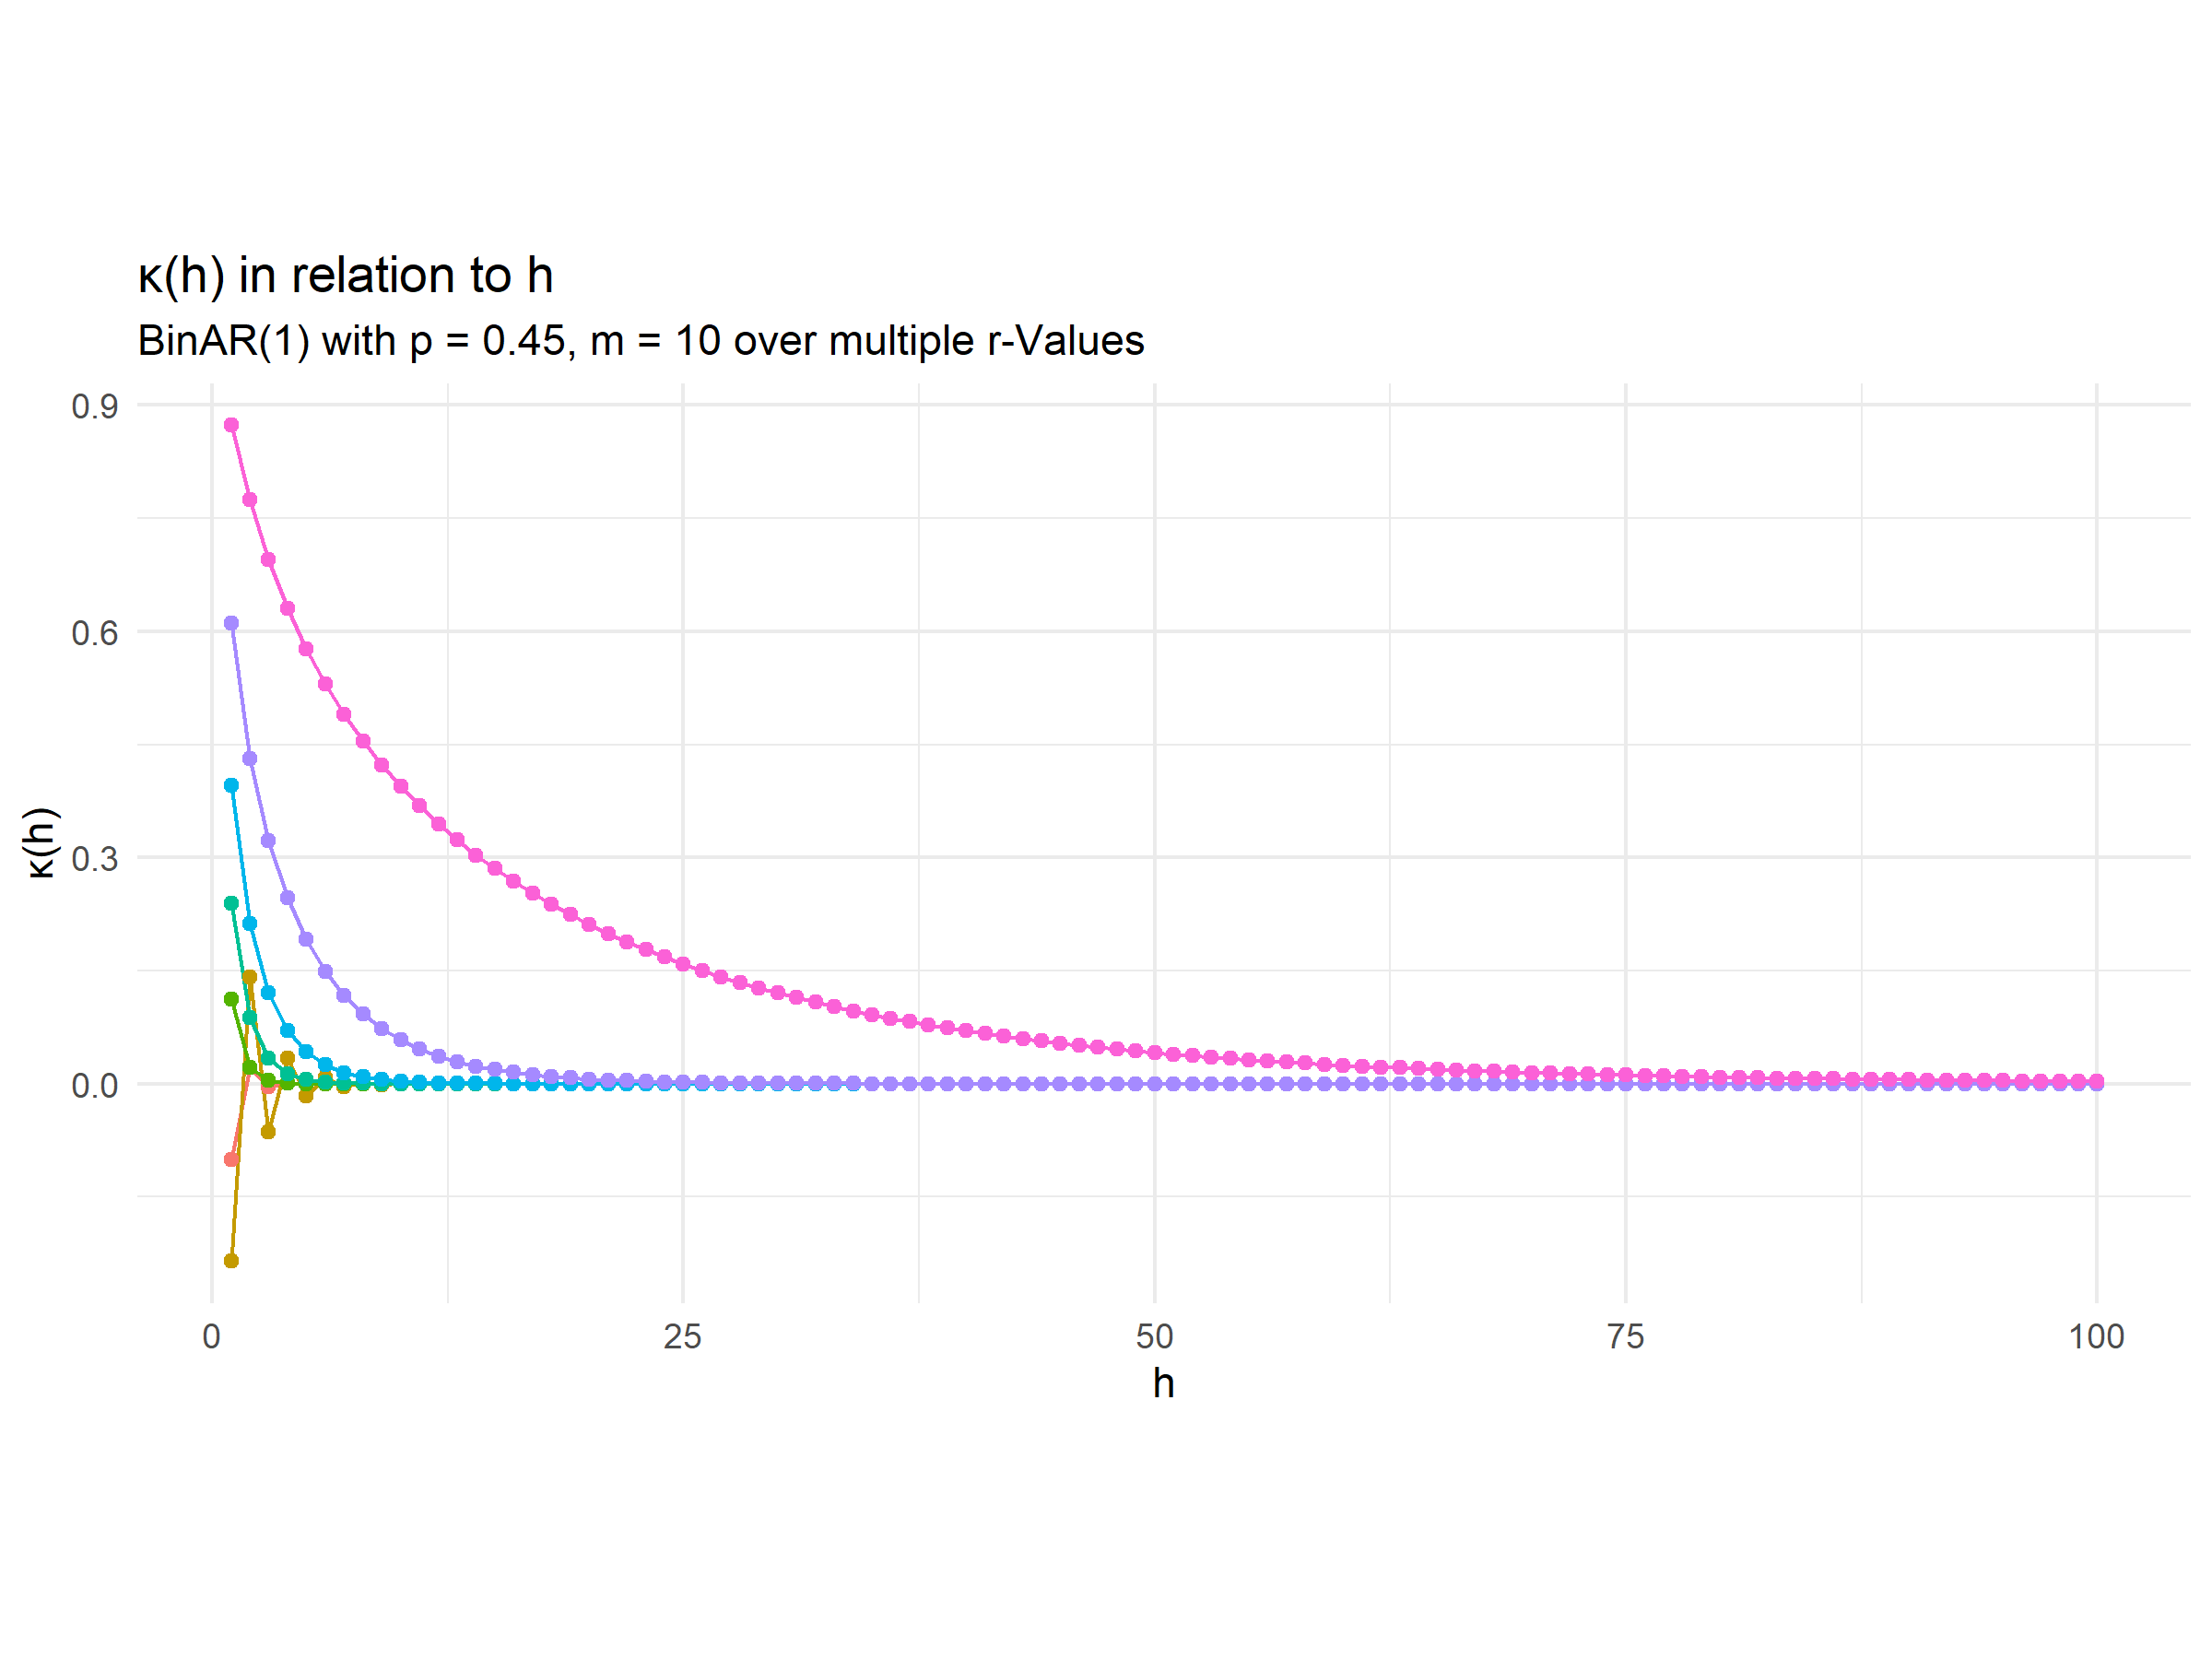
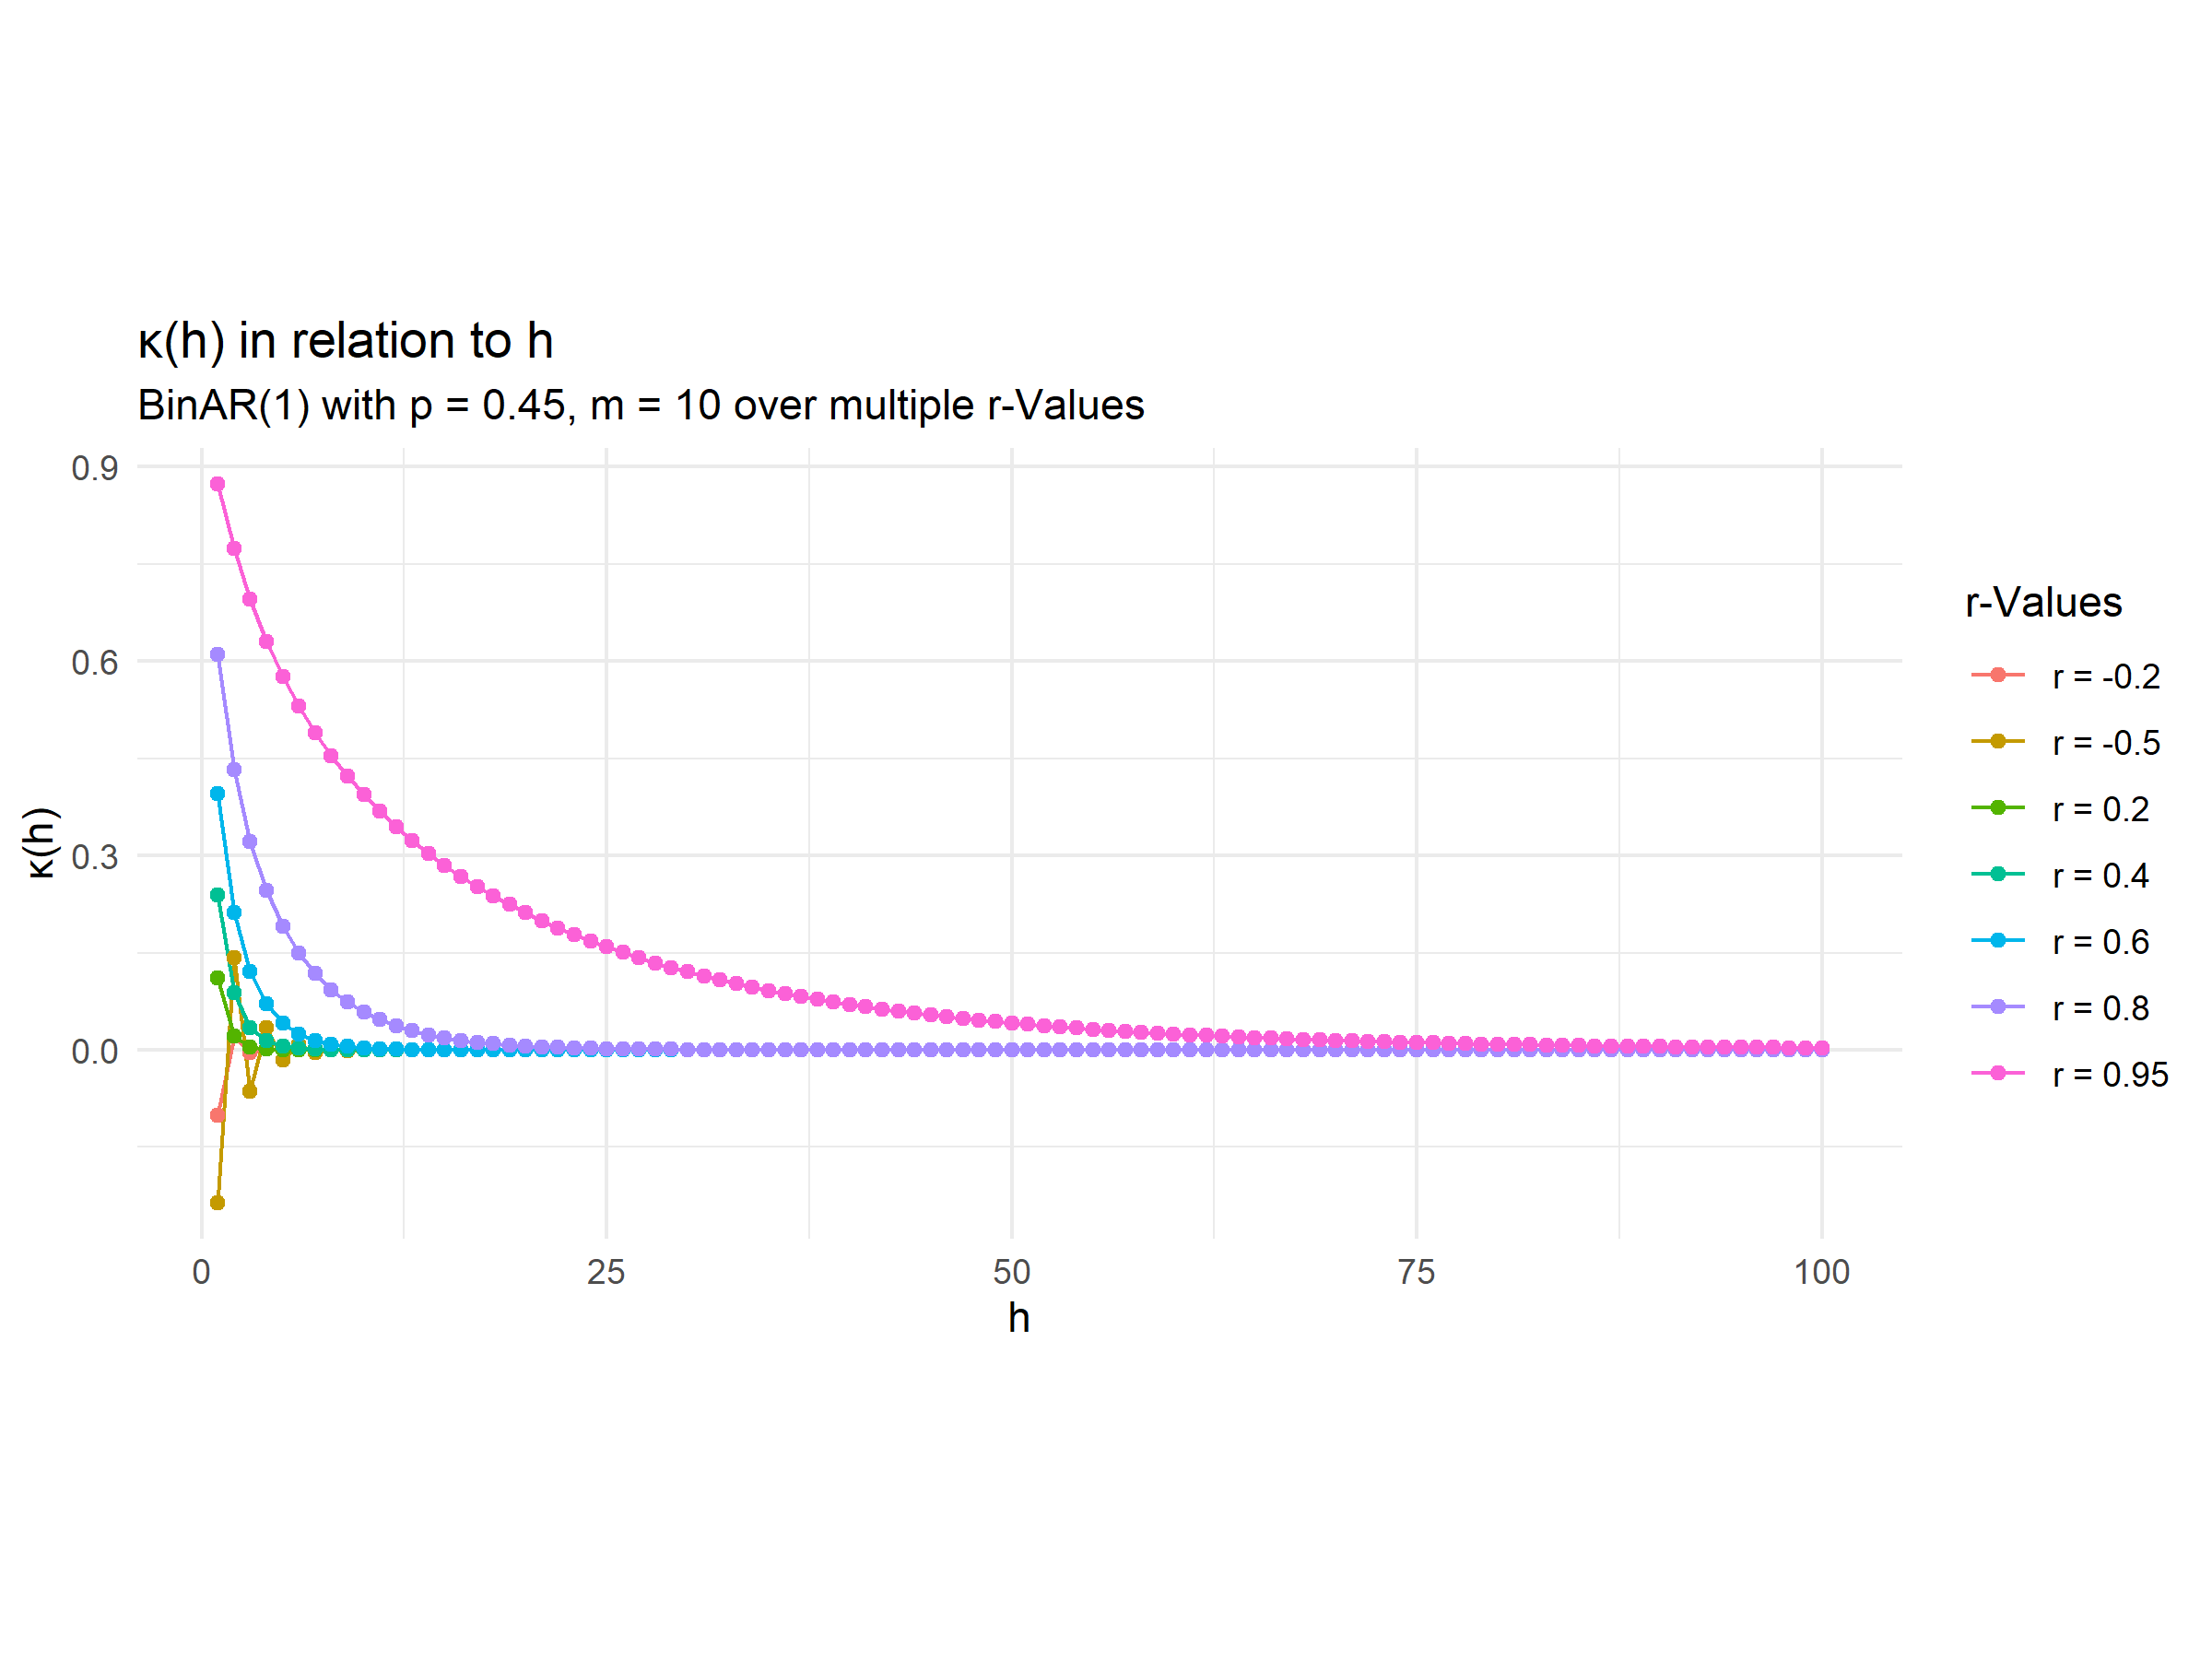
22_06_02

diff --git a/Draft/Draft.tex b/Draft/Draft.tex
@@ -10,7 +10,7 @@
 \usepackage{float}
 \usepackage{fontspec}
 \usepackage[stable]{footmisc}
-\usepackage{showframe}
+% \usepackage{showframe}
 % Theorem-Definitionen
 \newtheorem{theorem}{Theorem}[chapter]
 \newtheorem{proposition}[theorem]{Proposition}
@@ -85,11 +85,11 @@ methodological attention. Building on the amplitude modulation framework introdu
 by \citet{weiss2021categorical}, this thesis develops asymptotic theory for distributional
 measures of ordinal and nominal categorical time series under missingness. For both
 measures of marginal dispersion and measures of serial dependence, 
-missingness-corrected estimators are introduced and their asymptotic normality is established 
+missingness-corrected estimators are introduced, and their asymptotic normality is established 
 under certain dependency conditions. The delta method is used to derive closed-form expressions for the
 asymptotic variance and the leading-order finite-sample bias of these estimators, and
 a hypothesis test for serial independence based on the corrected $\kappa$-estimator is
-constructed.The accompanying Monte Carlo simulation study, based on the BinAR(1) process,
+constructed. The accompanying Monte Carlo simulation study, based on the BinAR(1) process,
 goes beyond the illustrations in \citet{weiss2021categorical} by systematically
 investigating finite-sample accuracy and rates of convergence across a broad range
 of sample sizes, and by extending the analysis to more complex missingness structures:
@@ -219,10 +219,10 @@ Furthermore, $(X_t)$ is assumed to be stationary. A distinction can be made betw
 \end{definition}
 
 \begin{definition}[Strong/ Strict Stationarity]\label{def:Stationarity}
-    Strong/ Strict stationarity requires that all finite-dimensional distributions are invariant under time shifts, i.e.,
-        \begin{equation}
+    Strong/ Strict stationarity requires that all finite-dimensional distributions are invariant under time shifts, i.e.
+        \begin{equation*}
             F_{X_t,\ldots,X_{t+j}} = F_{X_{t+h},\ldots,X_{t+h+j}} \quad \forall\,t,j,h.
-        \end{equation}
+        \end{equation*}
 \end{definition}
 \section{Marginal Distributions}
 
@@ -243,7 +243,7 @@ Regardless of whether we consider a simple categorical process with few categori
 
     \item \textbf{Nominal data:}
     Since the categories of nominal variables do not possess a meaningful order, statistical procedures cannot make use of cumulative structure.
-    Therefore the marginal distribution is best represented by the probability mass function (PMF):
+    Therefore, the marginal distribution is best represented by the probability mass function (PMF):
     \[
         \boldsymbol{p} = (p_0, \dots, p_{m})^\top,
         \qquad
@@ -622,7 +622,7 @@ and hence Borel-measurable \citep[Theorem~1.88]{klenke2005}.
 The measurability of $g(X_t) = \boldsymbol{Z}_t$ follows from the 
 measurability of its components, and the composition 
 $U_t = L \circ g \circ X_t$ is measurable by 
-\citet[Theorem~1.80]{klenke2005}. Hence $U_t$ inherits strict stationarity and $\alpha$-mixing with
+\citet[Theorem~1.80]{klenke2005}. Hence, $U_t$ inherits strict stationarity and $\alpha$-mixing with
 $\alpha_{U_t}(n) \le \alpha_{X_t}(n) \le C\rho^n$ from $(X_t)$. We apply the CLT of
 \citet[Theorem 7]{Ibragimov1962}, which requires four conditions:
 \begin{enumerate}
@@ -1359,7 +1359,7 @@ O_t O_{t-h}Z_{t,j'}Z_{t-h,j'})\biggr] \\
 + 2\sum_{k=1}^{\infty}\bigl[
 \mathrm{E}[O_tO_{t-h}O_{t+k}O_{t+k-h}]
 - \pi(h)^2\bigr]\Bigr)\\
-&\quad =: f_{j'j'}(h)\,\sigma^{(h)}_{-2-2}\\[2ex]
+&\quad = f_{j'j'}(h)\,\sigma^{(h)}_{-2-2}\\[2ex]
 %
 &\textbf{(v)}\ i = j = -1: \\
 &\quad \mathrm{Var}(O_t) + 2\sum_{k=1}^\infty\mathrm{Cov}(O_t, O_{t+k}) 
@@ -1770,11 +1770,11 @@ Theorem~\ref{thm:kappa-asymp} and Slutsky's theorem, this test has
 asymptotic level $\alpha$.\\
 The test can equivalently be expressed through a confidence interval:
 $H_0$ is rejected at level $\alpha$ if and only if $0$ lies outside
-\begin{equation}\label{eq:ci-kappa}
+\begin{equation*}\label{eq:ci-kappa}
     \hat{\kappa}_{\mathrm{ord}}(h)
     \;\pm\;
     z_{\alpha/2}\,\frac{\hat{\sigma}_\kappa}{\sqrt{n}}.
-\end{equation}
+\end{equation*}
 It is important to note that \eqref{eq:ci-kappa} is an interval for
 the purpose of testing $H_0: \kappa_{\mathrm{ord}}(h) = 0$; it does
 \emph{not} serve as a confidence interval for the true value
@@ -2112,7 +2112,7 @@ of $\widehat{\mathrm{IOV}}$ as a function of $n$. The left panel
 shows the mean bias
 $\frac{1}{B}\sum_{b=1}^B(\widehat{\mathrm{IOV}}_b - \mathrm{IOV})$,
 together with the theoretical approximation
-$-\frac{4}{mn}\sum_{i=0}^{m-1}\sigma_{\hat{\boldsymbol{f}}^*;\,i,i}$
+$-\frac{4}{mn}\sum_{i=0}^{m-1}\sigma_{\hat{\boldsymbol{f}}^*;\,ii}$
 from Corollary~\ref{cor:iov_missing}$\, $ (dashed). The simulated and
 theoretical curves are nearly indistinguishable across the entire
 range of $n$, confirming the accuracy of the $O(n^{-1})$
@@ -2120,7 +2120,7 @@ approximation even at small sample sizes.\\
 The right panel displays the $n$-scaled bias
 $n \cdot \frac{1}{B}\sum_{b=1}^B(\widehat{\mathrm{IOV}}_b -
 \mathrm{IOV})$, along with the corresponding theoretical limit
-$-\frac{4}{m}\sum_{i=0}^{m-1}\sigma_{\hat{\boldsymbol{f}}^*;\,i,i}$
+$-\frac{4}{m}\sum_{i=0}^{m-1}\sigma_{\hat{\boldsymbol{f}}^*;\,ii}$
 (dashed). If the bias were exactly of order $n^{-1}$, this quantity
 would be constant in $n$. The figure shows that it is indeed nearly
 constant, with only minor fluctuations around the limiting value.\\
@@ -2549,12 +2549,12 @@ exponentially decaying coefficients. Then
 \[
     \sqrt{n}\bigl(\hat{\boldsymbol{p}} - \boldsymbol{p}\bigr)
     \xrightarrow[n\to\infty]{d}
-    \mathcal{N}\bigl(\boldsymbol{0},\, \boldsymbol{\Sigma}_Y\bigr),
+    \mathcal{N}\bigl(\boldsymbol{0},\, \boldsymbol{\Sigma}_{\boldsymbol{Y}}\bigr),
 \]
-where $\boldsymbol{\Sigma}_Y = (\sigma_{Y;ij})_{i,j=0,\ldots,m}$ is
+where $\boldsymbol{\Sigma}_{\boldsymbol{Y}} = (\sigma_{\boldsymbol{Y};ij})_{i,j=0,\ldots,m}$ is
 given by
 \[
-    \sigma_{Y;ij}
+    \sigma_{\boldsymbol{Y};ij}
     = p_j(\delta_{ij} - p_i)
     + \sum_{h=1}^{\infty}\bigl(p_{ij}(h) + p_{ji}(h) - 2p_ip_j\bigr).
 \]
@@ -2609,7 +2609,7 @@ defined analogously to Definition~\ref{def:correctedest} as
             {\frac{1}{n}\sum_{t=1}^n O_t}
     = \frac{\hat{\boldsymbol{\mathfrak{p}}}}{\bar{O}}.
 \]
-\end{definition}
+\end{definition}\noindent
 Since $O_t\boldsymbol{Y}_t$ is a bounded indicator process that 
 inherits stationarity and $\alpha$-mixing from $(O_t)$ and $(X_t)$ 
 by the same argument as in Section~\ref{sec:Amp Mod}, the asymptotic 